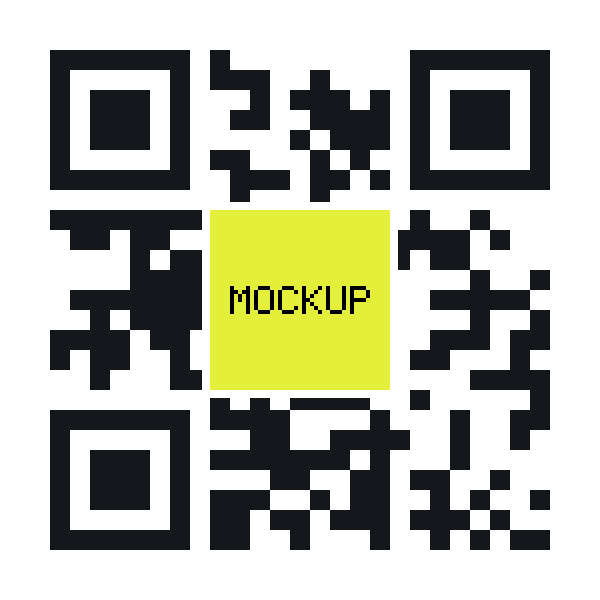
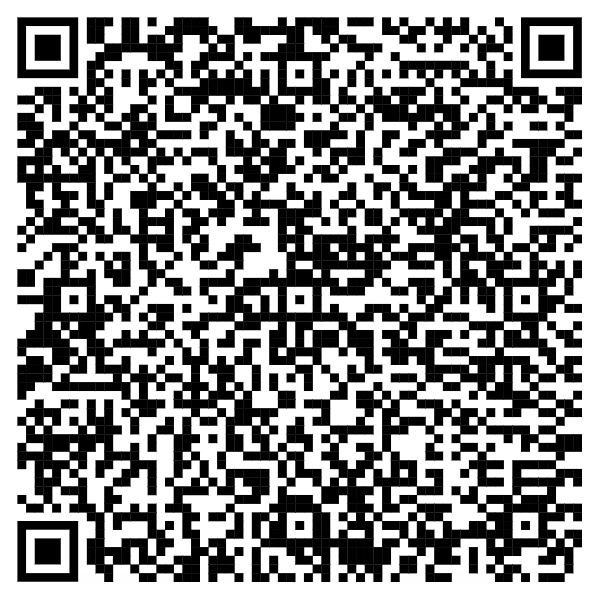
QRs reais de reunião e do bot no lugar dos mockups
As duas imagens ganharam margem branca em volta para facilitar a leitura.
O cache passa para a versão 5, para os celulares baixarem as imagens novas.

diff --git a/sw.js b/sw.js
@@ -2,7 +2,7 @@
 // Ao publicar qualquer mudança de código, aumente VERSAO: o celular baixa tudo de novo na próxima abertura.
 // Mudanças só no config.js não precisam disso (ele é importado abaixo e o navegador percebe sozinho).
 
-var VERSAO = '4';
+var VERSAO = '5';
 var CACHE = 'leads-' + VERSAO;
 
 importScripts('config.js');

diff --git a/PLANO.md b/PLANO.md
@@ -13,7 +13,7 @@ Decisões já tomadas:
 - O backend é uma Planilha Google com Apps Script.
 - A classificação aparece na tela como uma pergunta neutra sobre o próximo passo ("Marcar uma reunião" ou "Receber nosso contato"), porque a pessoa abordada pode ver a tela. O treinamento ensina o critério: empresa madura vai para reunião; startup ou empresa em estágio inicial vai para contato.
 - O "código para copiar e mandar" da ideia original vira o backup de emergência, não o fluxo principal.
-- Os QRs mostrados para a empresa já existem como imagens prontas, uma por próximo passo. O app só exibe a imagem indicada no `config.js`; até as imagens finais chegarem, usa imagens de mockup.
+- Os QRs mostrados para a empresa já existem como imagens prontas, uma por próximo passo. O app só exibe a imagem indicada no `config.js`; as imagens finais entraram no lugar dos mockups em 28/10.
 
 ## Instruções para o Claude Code
 
@@ -286,13 +286,13 @@ Rode tudo nos celulares que os voluntários vão usar, com crachás reais do eve
 - [x] Fechar o navegador com leads pendentes, reabrir: continuam lá e são enviados (ensaio geral)
 - [x] Mesmo crachá duas vezes: aparece o aviso de duplicado (ensaio geral)
 - [x] Sem celular e sem e-mail: o app não deixa salvar (fase 3; só celular, só e-mail ou os dois seguem)
-- [ ] QR de reunião abre a agenda; QR de contato abre o link certo
+- [x] QR de reunião abre a agenda; QR de contato abre o link certo (lidos na tela do app; a agenda do Outlook abre sem login; link do bot confirmado)
 - [x] Dois voluntários enviando ao mesmo tempo: nenhuma linha perdida (3 envios simultâneos de 10 leads na planilha real: 30 gravados; reenvio: 30 ignorados)
 - [x] Dashboard confere com a contagem manual (fase 8, com 20 leads fictícios)
 - [x] Exportar backup no celular e importar na planilha sem duplicar (fase 9)
 - [ ] Uso contínuo por uma sessão longa: checar bateria e levar carregadores portáteis
 - [ ] App instalado na tela inicial de cada voluntário antes do evento (no iPhone, usar só o ícone instalado: ele não enxerga os dados do Safari)
-- [ ] Imagens reais dos QRs de reunião e de contato no lugar dos mockups (`img/`)
+- [x] Imagens reais dos QRs de reunião e de contato no lugar dos mockups (`img/`, com margem branca em volta)
 - [ ] Antes do evento: apagar as linhas de teste da aba Leads e zerar o app nos celulares usados em testes
 
 ## Pendências para preencher antes de começar
@@ -301,8 +301,8 @@ Sete respostas destravam o `config.js` e a fase 1.
 
 - [x] Nome do evento e datas: AI Experience, 28 e 29 de outubro de 2026
 - [x] Lista de voluntários: não há; cada voluntário digita o próprio nome no primeiro uso
-- [x] Link de agendamento para o QR de reunião: QR já pronto, a imagem será enviada depois (mockup até lá)
-- [x] Link para o QR de contato: QR já pronto, a imagem será enviada depois (mockup até lá)
+- [x] Link de agendamento para o QR de reunião: agenda do Outlook (Prospecção CEIA & AKCIT - UFG), imagem em `img/qr-reuniao.png`
+- [x] Link para o QR de contato: chat do bot (transformit.matchit.com.br), imagem em `img/qr-contato.png`
 - [x] Manter o campo Empresa? Sim, opcional
 - [x] O que significam os prefixos DOI e FD? Ainda não se sabe; tratados só como código do crachá
 - [x] Conta Google dona da planilha e do Apps Script: conta pessoal do dono do projeto
